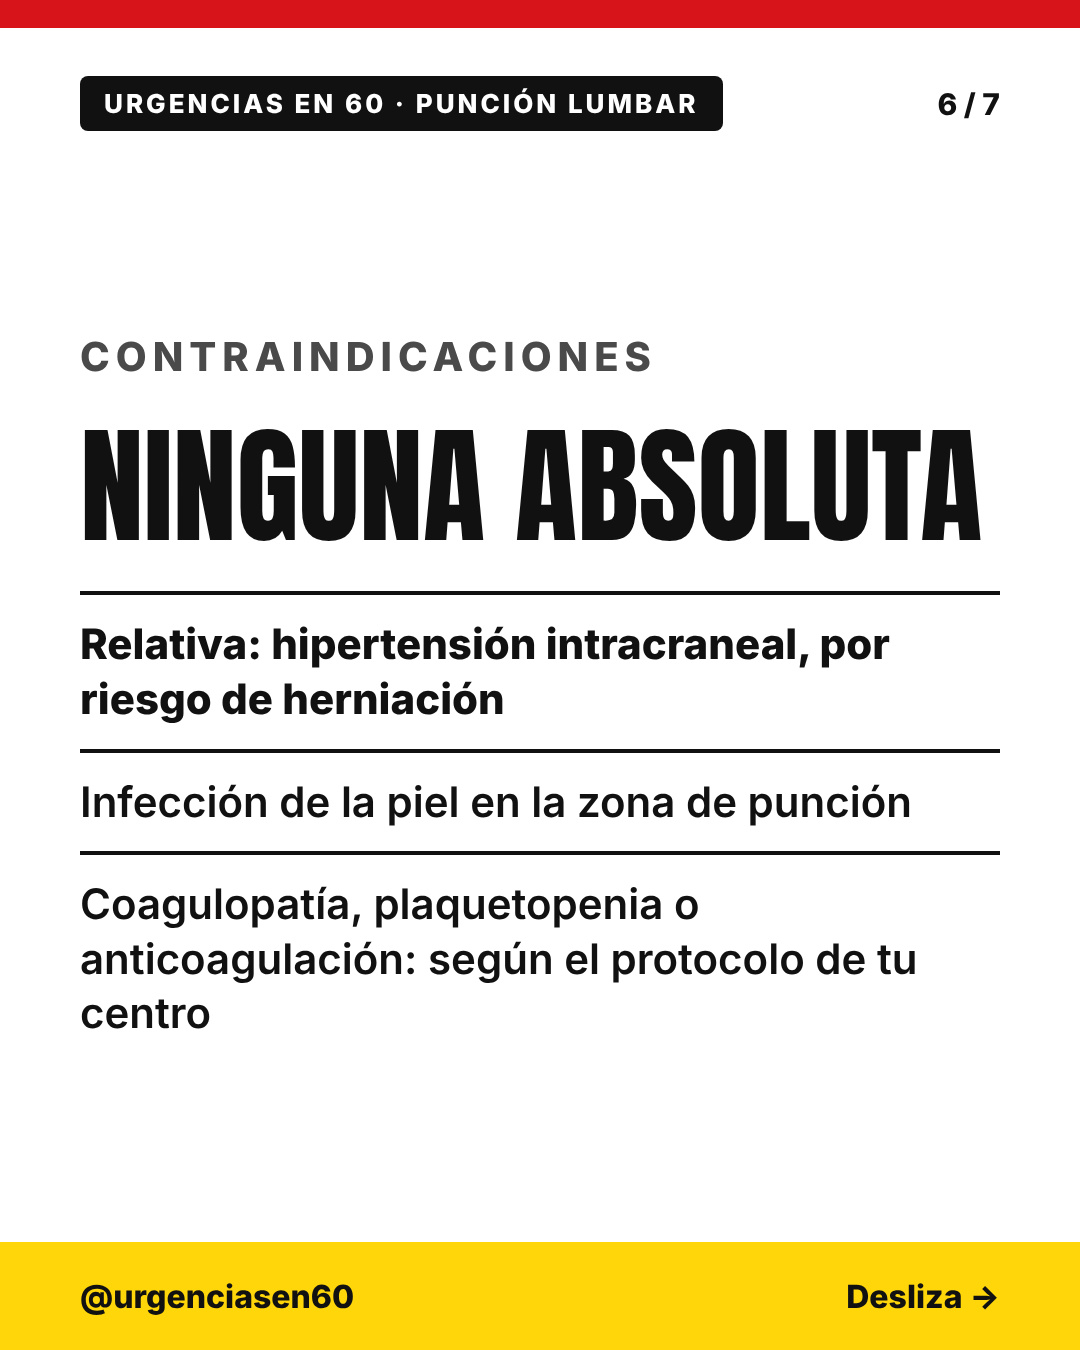
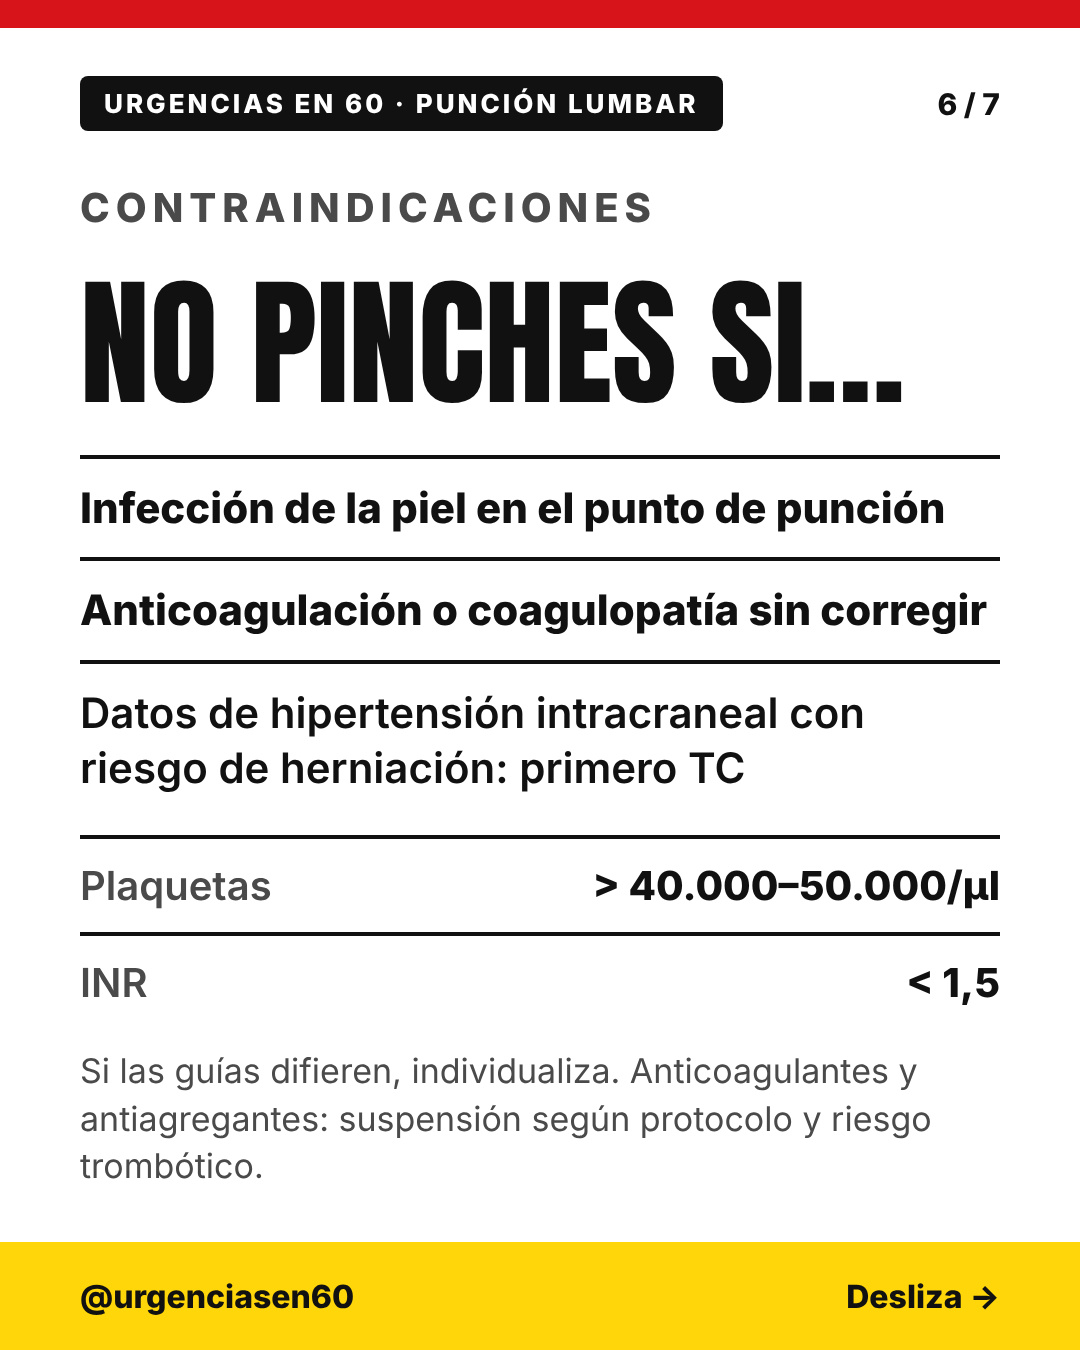
Ficha 08: contraindicaciones con cifras, solo adultos; decisiones de publicación de técnicas
Claude-Session: https://claude.ai/code/session_019S5PG2ppqwuZwMv2DxeA6e

Changed region(s): [[0.0611, 0.4356, 0.9472, 0.8711], [0.0611, 0.1244, 0.9167, 0.4044]]

diff --git a/tools/pl_tc.py b/tools/pl_tc.py
@@ -16,7 +16,7 @@ page(2,N,T,kicker("LA IDEA CLAVE")+big("SOLO SI SOSPECHAS HIPERTENSIÓN INTRACRA
 page(3,N,T,kicker("¿QUÉ DICEN LAS GUÍAS?")+big("TC SI HAY…",130)+tabla()+note("GCS: escala de coma de Glasgow. SNC: sistema nervioso central (masa, ictus, infección focal).")),
 page(4,N,T,kicker("¿CUÁL ELEGIR?")+big("LAS TRES DETECTAN LO MISMO",108)+rows(row("Pacientes analizados","196"),row("TC normal","92 %"),row("TC que contraindicó la punción","2 (edema difuso)"))+f'<div style="border-top:4px solid {K};padding-top:24px;font-size:40px;font-weight:800;line-height:1.3">Las 3 guías detectaban esos 2 casos. La IDSA pidió más TC (33 % frente a 10–14 %) sin encontrar ninguno más.</div>'),
 page(5,N,T,kicker("SI LA PUNCIÓN SE RETRASA")+big("EL ANTIBIÓTICO NO ESPERA",116,R)+rows(line("Hemocultivos y antibiótico empírico antes de la TC",True),line("Después, TC y punción lumbar cuando sea seguro"))+note("Esperar a la TC para empezar el antibiótico puede empeorar el pronóstico de la meningitis bacteriana.")),
-page(6,N,T,kicker("CONTRAINDICACIONES")+big("NINGUNA ABSOLUTA",128)+rows(line("Relativa: hipertensión intracraneal, por riesgo de herniación",True),line("Infección de la piel en la zona de punción"),line("Coagulopatía, plaquetopenia o anticoagulación: según el protocolo de tu centro"))),
-page(7,N,T,ficha_body("¿TC ANTES DE LA PL?","Adulto",[("REGLA","TC solo si hay datos de hipertensión intracraneal; no de rutina",True),("PIDE TC SI","Bajo nivel de consciencia, focalidad, crisis nueva o no controlada, papiledema, inmunodepresión grave"),("UMBRAL GCS","IDSA &lt; 15 · Reino Unido ≤ 12 · ESCMID ≤ 10: individualiza"),("NO RETRASES","Hemocultivos + antibiótico antes de la TC si la PL se demora",True),("CONTRAIND.","Ninguna absoluta. Relativa: hipertensión intracraneal"),("REVISA","Infección local y coagulación según tu protocolo")],"Herlihy FO, et al. Emerg Radiol 2024;31(3):373-9; Preevid (Murciasalud) 25020, 2023",size=96,fs=29),ficha="08"),
+page(6,N,T,kicker("CONTRAINDICACIONES")+big("NO PINCHES SI…",140,nowrap=True)+rows(line("Infección de la piel en el punto de punción",True),line("Anticoagulación o coagulopatía sin corregir",True),line("Datos de hipertensión intracraneal con riesgo de herniación: primero TC"))+rows(row("Plaquetas","&gt; 40.000–50.000/µl"),row("INR","&lt; 1,5"))+note("Si las guías difieren, individualiza. Anticoagulantes y antiagregantes: suspensión según protocolo y riesgo trombótico.")),
+page(7,N,T,ficha_body("¿TC ANTES DE LA PL?","Adulto",[("REGLA","TC solo si hay datos de hipertensión intracraneal; no de rutina",True),("PIDE TC SI","Bajo nivel de consciencia, focalidad, crisis nueva o no controlada, papiledema, inmunodepresión grave"),("UMBRAL GCS","IDSA &lt; 15 · Reino Unido ≤ 12 · ESCMID ≤ 10: individualiza"),("NO RETRASES","Hemocultivos + antibiótico antes de la TC si la PL se demora",True),("NO PINCHES SI","Infección local, anticoagulación o coagulopatía sin corregir"),("CIFRAS","Plaquetas &gt; 40.000–50.000/µl · INR &lt; 1,5",True)],"Herlihy FO, et al. Emerg Radiol 2024;31(3):373-9; Preevid 25020, 2023; Dodd KC, et al. Guía ABN 2026",size=96,fs=29),ficha="08"),
 ]
 render(P,sys.argv[1] if len(sys.argv)>1 else "out","pl-tc-antes")

diff --git a/COLA.md b/COLA.md
@@ -45,3 +45,4 @@ Cada carrusel aprobado tendrá un reel del mismo tema (unos 20 s; título arriba
 - **Voz del canal:** voz sintética castellana `es_ES-davefx-medium` (Piper; datos CC0), elegida por Eduardo el 17/11. Script en `tools/voz/locucion.py`; textos de locución en `tools/voz/*.txt`. Se descartaron la clonación de su voz (seseo/acento americano) y el modelo F5-Spanish (licencia no comercial).
 - **18/11 (render nocturno):** vídeo 3D de 60 s de la punción lumbar en `borradores/tecnica-puncion-lumbar/*-video60.mp4` (borrador, sin programar). Epistaxis: solo escenas 3D de prueba en `borradores/tecnica-epistaxis/escenas-3d/`; locución y montaje a la espera de la revisión de contenido de Eduardo.
 - **18/11:** Eduardo decide separar técnica y clínica: el vídeo y el carrusel de Técnica 02 son solo técnica; indicaciones, TC previa y contraindicaciones pasan a la Ficha 08 (fuentes que aportó: Herlihy 2024 vía cbseram y Preevid 25020).
+- **18/11 (decisiones de Eduardo):** técnicas = carrusel + vídeo 60 s el MISMO día (primero el vídeo) y al día siguiente el reel corto, que termina remitiendo al carrusel y al vídeo. Vídeo PL v4 (próxima noche de render): ~60 s, máximo realismo, varón musculado, paño quirúrgico, cara visible permitida, corte sagital realista, plano del LCR con la mano retirando el fiador y luego las gotas, música del canal bajita. Ficha 08: solo adultos, hemocultivos antes, infección local y anticoagulación como contraindicaciones, con cifras (plaquetas > 40.000–50.000/µl, INR < 1,5; ABN 2026).

diff --git a/borradores/REVISION.md b/borradores/REVISION.md
@@ -48,3 +48,4 @@ Nada de este lote está programado. Cada bloque recoge la fuente, lo que NO pude
 ## Técnica 02 · Punción lumbar (actualizada el 18/11)
 - Ahora solo técnica: se quitan las diapositivas de TC previa y contraindicaciones. Nuevas: «La aguja» (atraumática; Nath S, et al. Lancet. 2018;391(10126):1197-204) y «Al terminar».
 - Vídeo de 63,5 s rehecho con locución solo de técnica.
+- 18/11: Eduardo confirma hemocultivos antes de la TC, infección local y anticoagulación como contraindicaciones, cifras y solo adultos. Cifras de la guía ABN 2026 (Dodd KC, et al. Periprocedural antithrombotic management for lumbar puncture: ABN 2026 guideline update) y AABB (50.000/µl).
